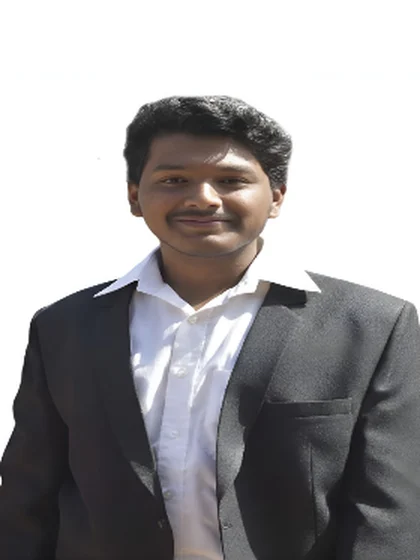
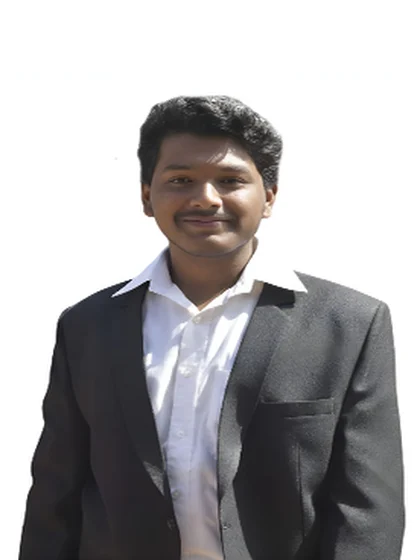
feat: real app screenshots and corrected team photos
- Replace the nine screenshot placeholders with real screens of Story
  Studio, the Activity Center, the teacher dashboard and the six games
  (1600x1000 WebP, 460 KB in total)
- Fix the sideways stretch in Nauman's photo
- Put Ravikiran's photo on a white background (rembg person model)
- Use Varshita's new photo

diff --git a/docs/index.html b/docs/index.html
@@ -479,7 +479,7 @@ body.menu-open .logo svg{filter:invert(1)}
   var $=function(s,r){return (r||document).querySelector(s)}, $$=function(s,r){return [].slice.call((r||document).querySelectorAll(s))};
 
   /* ---------- content ---------- */
-  function shot(file,label){return '<figure class="shot"><img src="assets/screenshots/'+file+'.png" alt="'+label+' screenshot" loading="lazy"><figcaption class="ph">'+label+'<code>assets/screenshots/'+file+'.png</code></figcaption></figure>'}
+  function shot(file,label){return '<figure class="shot"><img src="assets/screenshots/'+file+'.webp" alt="'+label+' screenshot" loading="lazy"><figcaption class="ph">'+label+'<code>assets/screenshots/'+file+'.webp</code></figcaption></figure>'}
   function facts(f){return f?'<div class="facts">'+f.map(function(x){return '<span>'+x+'</span>'}).join('')+'</div>':''}
   function qa(o){
     var inner=o.shot?'<div class="qa-b with-shot">'+shot(o.shot,o.q)+'<div>'+o.a+facts(o.f)+'</div></div>':'<div class="qa-b">'+o.a+facts(o.f)+'</div>';

diff --git a/docs/assets/screenshots/README.md b/docs/assets/screenshots/README.md
@@ -1,17 +1,17 @@
 # Screenshots for the project home page
 
-Put a PNG here with **exactly** one of these names, and it replaces the dashed placeholder box on `docs/index.html`. You don't need to change any code. Images in a 16:10 or 16:9 shape look best (for example 1600 × 1000 or 1600 × 900).
+These images appear inside the dropdowns on `docs/index.html`. To replace one, save a new image with **exactly** the same name here. They are WebP files at 1600 × 1000 (16:10).
 
-| File name | Where it appears |
-|---|---|
-| `story-studio.png` | Apps: Story Studio card |
-| `activity-center.png` | Apps: Activity Center card |
-| `portal.png` | Apps: Classroom Portal card |
-| `game-color-animate.png` | Games: Color & Animate Studio |
-| `game-color-matcher.png` | Games: Color Matcher |
-| `game-spotter.png` | Games: Spotter Detective |
-| `game-count-play.png` | Games: Count & Play |
-| `game-jigsaw.png` | Games: Jigsaw Puzzle |
-| `game-train.png` | Games: Train Builder |
+| File name | Where it appears | Source screenshot |
+|---|---|---|
+| `story-studio.webp` | Apps: Story Studio | `ppt_screenshots/12_story_generation.png` |
+| `activity-center.webp` | Apps: Activity Center | `ppt_screenshots/09_activity_center.png` |
+| `portal.webp` | Apps: Classroom Portal | `ppt_screenshots/06_teacher_dashboard.png` |
+| `game-color-animate.webp` | Games: Color & Animate Studio | `ppt_screenshots/10a_game_color-filling.png` |
+| `game-color-matcher.webp` | Games: Color Matcher | `ppt_screenshots/10b_game_color-matcher.png` |
+| `game-spotter.webp` | Games: Spotter Detective | `ppt_screenshots/10c_game_shape-spotter.png` |
+| `game-count-play.webp` | Games: Count & Play | `ppt_screenshots/10d_game_objects-counting.png` |
+| `game-jigsaw.webp` | Games: Jigsaw Puzzle | `ppt_screenshots/10e_game_puzzle-builder.png` |
+| `game-train.webp` | Games: Train Builder | `ppt_screenshots/10f_game_number-sequencing.png` |
 
-To use a different file type (for example `.jpg`), also change the file name in `docs/index.html`.
+If an image is missing, the page shows a dashed placeholder with the file name instead.
